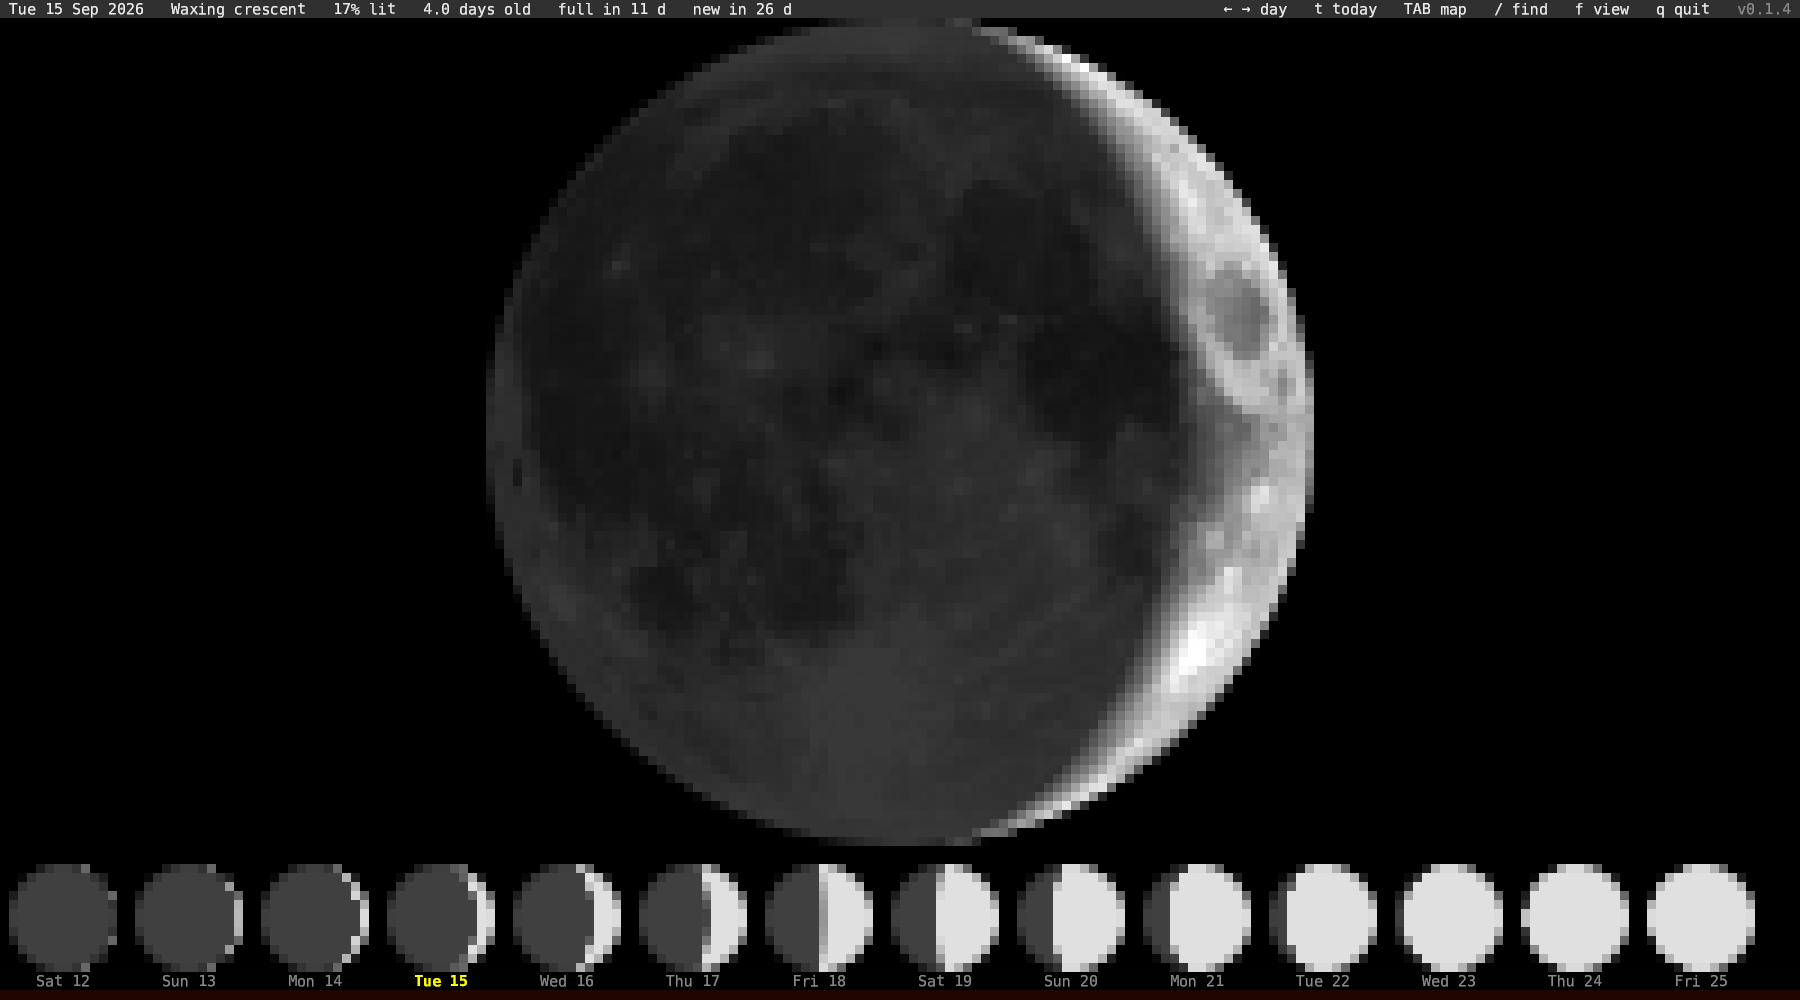
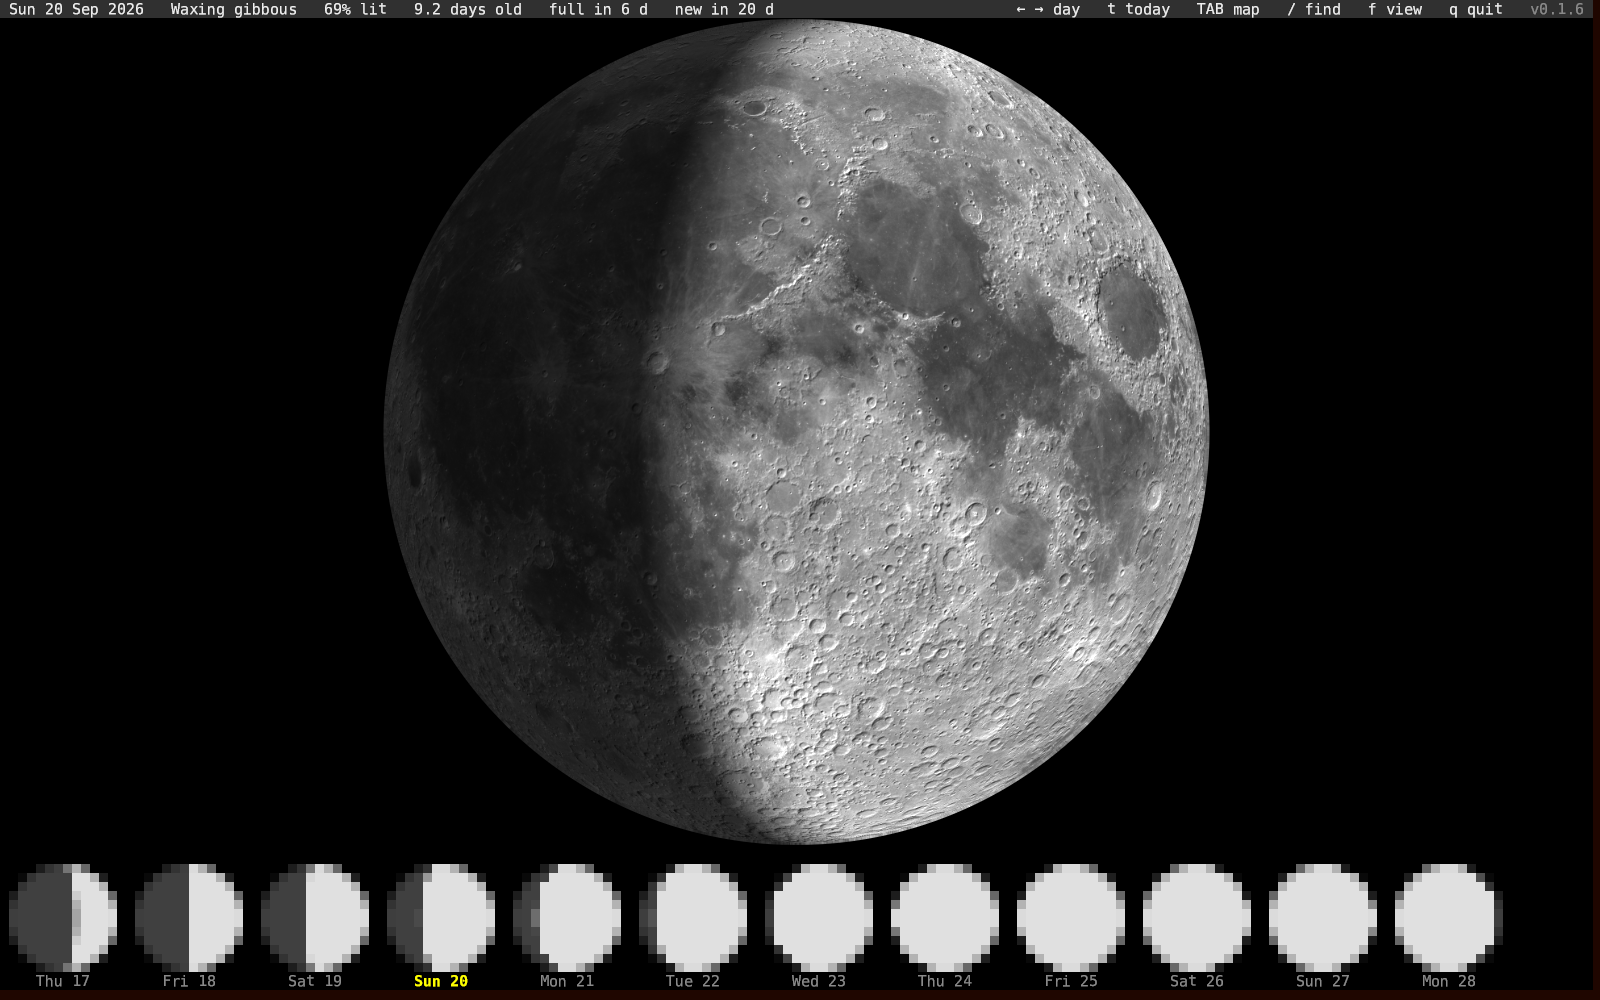
moon 0.1.6: the big Moon in real pixels where the terminal shows images
In glass, or any terminal glow can paint, the Moon screen now draws the
shaded 2048-pixel map through glow at the cell size in pixels, with
earthshine on the night side and the same lighting as before. Terminals
without images keep the half-block disk. The photo screen shares the
new disk renderer; the README screenshot is the new look in glass.

diff --git a/src/main.rs b/src/main.rs
@@ -1,7 +1,8 @@
 //! moon — the Moon as it looks tonight.
 //!
-//! The near side, lit for the phase of the moment, drawn with half-block
-//! cells so every cell holds two pixels. A strip along the bottom shows
+//! The near side, lit for the phase of the moment, in real pixels through
+//! glow where the terminal shows images, else in half-block cells so every
+//! cell holds two pixels. A strip along the bottom shows
 //! the days around the one on screen. `m` opens a braille map to zoom and
 //! pan, with the features named, then the real photo through glow; `/`
 //! finds a feature; `f` turns the picture the way a telescope shows it.
@@ -194,22 +195,24 @@ fn main() {
 }
 
 /// Paint the screen for `st`, with `note` on the bottom row if there is
-/// one. `photo` is the image display, made the first time the photo
-/// screen opens.
+/// one. `photo` is the image display, made on the first paint.
 fn render(st: &State, note: Option<&str>, photo: &mut Option<glow::Display>) {
     // A photo sits above the text, so it comes down before any repaint.
     let (cols, rows) = Crust::terminal_size();
     if let Some(d) = photo.as_mut() { d.clear(1, 1, cols, rows, cols, rows); }
     let mut note = note.map(String::from);
     match st.screen {
-        Screen::Moon => render_phase(st, None),
+        Screen::Moon => {
+            let d = photo.get_or_insert_with(glow::Display::new);
+            if d.supported() { render_phase(st, Some(d), false) } else { render_phase(st, None, false) }
+        }
         Screen::Map => render_map(st),
         Screen::Photo => {
             let d = photo.get_or_insert_with(glow::Display::new);
             if d.supported() {
-                render_phase(st, Some(d));
+                render_phase(st, Some(d), true);
             } else {
-                render_phase(st, None);
+                render_phase(st, None, false);
                 note = Some("This terminal cannot show images".to_string());
             }
         }
@@ -301,8 +304,9 @@ fn header(cols: usize, mut facts: Vec<String>, keys: &str) {
 }
 
 /// Paint the Moon and the strip for the day `st.offset` days from today.
-/// With `photo`, the big Moon is the real photo, shown through glow.
-fn render_phase(st: &State, photo: Option<&mut glow::Display>) {
+/// With `pixels`, the big Moon is real pixels shown through glow: the
+/// shaded map, or NASA's photo when `photo` is set.
+fn render_phase(st: &State, pixels: Option<&mut glow::Display>, photo: bool) {
     let (cols, rows) = Crust::terminal_size();
     let (cols, rows) = (cols as usize, rows as usize);
     let (today, hours) = now_local();
@@ -321,8 +325,8 @@ fn render_phase(st: &State, photo: Option<&mut glow::Display>) {
         until(f, 0.0, "new"),
     ];
     if let Some(v) = st.flip.label() { facts.insert(1, v.to_string()); }
-    if photo.is_some() { facts.insert(1, "Photo".to_string()); }
-    header(cols, facts, if photo.is_some() {
+    if photo { facts.insert(1, "Photo".to_string()); }
+    header(cols, facts, if photo {
         "← → day   t today   TAB moon   / find   f view   q quit"
     } else {
         "← → day   t today   TAB map   / find   f view   q quit"
@@ -332,7 +336,7 @@ fn render_phase(st: &State, photo: Option<&mut glow::Display>) {
     let mut main = Pane::new(1, 2, cols as u16, main_h as u16, 255, 16);
     main.wrap = false;
     main.scroll = false;
-    main.set_text(&if photo.is_some() { String::new() } else { draw_moon(f, diam, cols, main_h, st.flip).join("\n") });
+    main.set_text(&if pixels.is_some() { String::new() } else { draw_moon(f, diam, cols, main_h, st.flip).join("\n") });
     main.refresh();
 
     let slots = (cols / SLOT).max(1);
@@ -360,8 +364,8 @@ fn render_phase(st: &State, photo: Option<&mut glow::Display>) {
     strip.scroll = false;
     strip.set_text(&format!("\n{}\n{}", lines.join("\n"), labels));
     strip.refresh();
-    if let Some(d) = photo {
-        let png = photo_png(f, cols, main_h, glow::get_cell_size(), st.flip);
+    if let Some(d) = pixels {
+        let png = disk_png(f, cols, main_h, glow::get_cell_size(), st.flip, photo);
         d.show_png(&png, 1, 2, cols as u16, main_h as u16);
     }
 }
@@ -637,18 +641,26 @@ fn photo_map() -> &'static Vec<u8> {
     PX.get_or_init(|| inflate_rows(PHOTO, PHOTO_N))
 }
 
-/// The real Moon for phase `f`: NASA's photo lit by the Sun, as a PNG
-/// filling `cols` × `rows` cells of `cell` pixels, turned by `flip`.
+/// The Moon for phase `f` as a PNG filling `cols` × `rows` cells of
+/// `cell` pixels, turned by `flip`: the shaded map lit by the Sun with
+/// earthshine on the night side, or NASA's photo when `photo` is set.
 /// Sized to whole cells so glow places it without stretching.
-fn photo_png(f: f64, cols: usize, rows: usize, cell: (u16, u16), flip: Flip) -> Vec<u8> {
+fn disk_png(f: f64, cols: usize, rows: usize, cell: (u16, u16), flip: Flip, photo: bool) -> Vec<u8> {
     let (w, h) = (cols * cell.0 as usize, rows * cell.1 as usize);
-    encode_png(&photo_pixels(f, w, h, flip), w, h, image::codecs::png::FilterType::Up)
+    let rgba = if photo {
+        disk_pixels(f, w, h, flip, PHOTO_NIGHT, PHOTO_RAMP, |x, y, _| photo_albedo(x, y))
+    } else {
+        // Map pixels per screen pixel picks the halving to read.
+        disk_pixels(f, w, h, flip, NIGHT, RAMP, |x, y, r| sample(levels(), x, y, BIG_N as f32 / (2.0 * r)))
+    };
+    encode_png(&rgba, w, h, image::codecs::png::FilterType::Up)
 }
 
-/// The photo's pixels, `w` × `h`, as RGBA.
-fn photo_pixels(f: f64, w: usize, h: usize, flip: Flip) -> Vec<u8> {
-    let map = photo_map();
-    let n = PHOTO_N as f32;
+/// The disk's pixels, `w` × `h`, as RGBA. `albedo(x, y, r)` gives the
+/// surface brightness (0..1) at disk point (x, y) on a disk `r` pixels in
+/// radius; `night` is how bright the dark side stays and `ramp` how sharp
+/// the terminator is.
+fn disk_pixels(f: f64, w: usize, h: usize, flip: Flip, night: f32, ramp: f32, albedo: impl Fn(f32, f32, f32) -> f32) -> Vec<u8> {
     let r = (w.min(h) as f32 / 2.0 - 1.0).max(1.0);
     let (cx, cy) = (w as f32 / 2.0, h as f32 / 2.0);
     let sun = ((f * 2.0 * PI).sin() as f32, -((f * 2.0 * PI).cos()) as f32);
@@ -670,24 +682,31 @@ fn photo_pixels(f: f64, w: usize, h: usize, flip: Flip) -> Vec<u8> {
             if cover <= 0.0 { continue; }
             // Pixels on the limb read the map just inside it.
             let inward = if rr > 0.995 { 0.995 / rr } else { 1.0 };
-            let u = ((x * inward + 1.0) / 2.0 * n - 0.5).clamp(0.0, n - 1.0);
-            let v = ((1.0 - y * inward) / 2.0 * n - 0.5).clamp(0.0, n - 1.0);
-            let (x0, y0) = (u as usize, v as usize);
-            let (x1, y1) = ((x0 + 1).min(PHOTO_N - 1), (y0 + 1).min(PHOTO_N - 1));
-            let (fx, fy) = (u - x0 as f32, v - y0 as f32);
-            let at = |i: usize, j: usize| map[j * PHOTO_N + i] as f32;
-            let albedo = (at(x0, y0) * (1.0 - fx) + at(x1, y0) * fx) * (1.0 - fy)
-                + (at(x0, y1) * (1.0 - fx) + at(x1, y1) * fx) * fy;
+            let a = albedo(x * inward, y * inward, r);
             let z = (1.0 - rr * rr).max(0.0).sqrt();
-            let lit = ((x * sun.0 + z * sun.1) * PHOTO_RAMP).clamp(0.0, 1.0);
-            let g = (albedo / WHITE * (PHOTO_NIGHT + (1.0 - PHOTO_NIGHT) * lit) * cover)
-                .round().clamp(0.0, 255.0) as u8;
+            let lit = ((x * sun.0 + z * sun.1) * ramp).clamp(0.0, 1.0);
+            let g = (a * 255.0 * (night + (1.0 - night) * lit) * cover).round().clamp(0.0, 255.0) as u8;
             rgba[o] = g;
             rgba[o + 1] = g;
             rgba[o + 2] = g;
         }
     }
     rgba
+}
+
+/// The photo's brightness (0..1) at disk point (x, y), read between pixels.
+fn photo_albedo(x: f32, y: f32) -> f32 {
+    let map = photo_map();
+    let n = PHOTO_N as f32;
+    let u = ((x + 1.0) / 2.0 * n - 0.5).clamp(0.0, n - 1.0);
+    let v = ((1.0 - y) / 2.0 * n - 0.5).clamp(0.0, n - 1.0);
+    let (x0, y0) = (u as usize, v as usize);
+    let (x1, y1) = ((x0 + 1).min(PHOTO_N - 1), (y0 + 1).min(PHOTO_N - 1));
+    let (fx, fy) = (u - x0 as f32, v - y0 as f32);
+    let at = |i: usize, j: usize| map[j * PHOTO_N + i] as f32;
+    let a = (at(x0, y0) * (1.0 - fx) + at(x1, y0) * fx) * (1.0 - fy)
+        + (at(x0, y1) * (1.0 - fx) + at(x1, y1) * fx) * fy;
+    a / 255.0 / WHITE
 }
 
 fn encode_png(rgba: &[u8], w: usize, h: usize, filter: image::codecs::png::FilterType) -> Vec<u8> {
@@ -853,21 +872,27 @@ mod tests {
     }
 
     #[test]
-    fn the_photo_fills_whole_cells_and_is_lit_on_the_sunward_side() {
-        let sides = |flip: Flip| {
-            let png = photo_png(0.25, 40, 20, (10, 20), flip);
+    fn the_disk_fills_whole_cells_and_is_lit_on_the_sunward_side() {
+        let sides = |flip: Flip, photo: bool| {
+            let png = disk_png(0.25, 40, 20, (10, 20), flip, photo);
             let img = image::load_from_memory(&png).unwrap().to_luma8();
             assert_eq!(img.dimensions(), (400, 400));
             (img.get_pixel(120, 200)[0], img.get_pixel(280, 200)[0])
         };
-        // First quarter: to the eye the right side is lit.
-        let (left, right) = sides(Flip::Eye);
-        assert!(right > 60 && right > left.saturating_mul(3), "left {left}, right {right}");
-        let (left, right) = sides(Flip::Telescope);
-        assert!(left > 60 && left > right.saturating_mul(3), "left {left}, right {right}");
+        for photo in [false, true] {
+            // First quarter: to the eye the right side is lit.
+            let (left, right) = sides(Flip::Eye, photo);
+            assert!(right > 60 && right > left.saturating_mul(2), "photo {photo}: left {left}, right {right}");
+            let (left, right) = sides(Flip::Telescope, photo);
+            assert!(left > 60 && left > right.saturating_mul(2), "photo {photo}: left {left}, right {right}");
+        }
+        // The shaded look keeps earthshine on the night side; the photo goes nearly black.
+        let (shaded_night, _) = sides(Flip::Eye, false);
+        let (photo_night, _) = sides(Flip::Eye, true);
+        assert!(shaded_night > 20 && photo_night < shaded_night, "shaded {shaded_night}, photo {photo_night}");
         let t = std::time::Instant::now();
-        let png = photo_png(0.3, 190, 50, (10, 20), Flip::Eye);
-        eprintln!("photo 1900x1000: {:?}, {} bytes", t.elapsed(), png.len());
+        let png = disk_png(0.3, 190, 50, (10, 20), Flip::Eye, false);
+        eprintln!("shaded 1900x1000: {:?}, {} bytes", t.elapsed(), png.len());
     }
 
     #[test]

diff --git a/README.md b/README.md
@@ -6,7 +6,9 @@ The Moon as it looks tonight, in the terminal.
 
 The big disk is the near side of the Moon, lit for the phase of the
 moment: the sunlit part in light gray and white, the night side in dark
-gray, craters and maria on both. A strip of phase symbols along the bottom shows the
+gray, craters and maria on both. In glass, or any terminal that shows
+images, the disk is real pixels; elsewhere each cell holds two. A strip of
+phase symbols along the bottom shows the
 three days before, the day on screen, and the days ahead until the edge
 of the window. Today's label is yellow.
 
@@ -109,7 +111,8 @@ Orbiter (LROC WAC), from the
 [CGI Moon Kit](https://svs.gsfc.nasa.gov/4720). Public domain.
 
 The photo screen uses the same LROC mosaic, unshaded, at 1024 pixels
-and shown through [glow](https://github.com/isene/glow).
+and shown through [glow](https://github.com/isene/glow). The big disk in
+pixels is the shaded 2048-pixel map, through glow as well.
 
 Heights for the map shading: NASA/GSFC, Lunar Orbiter Laser Altimeter
 (LOLA), from the same kit. Public domain.
